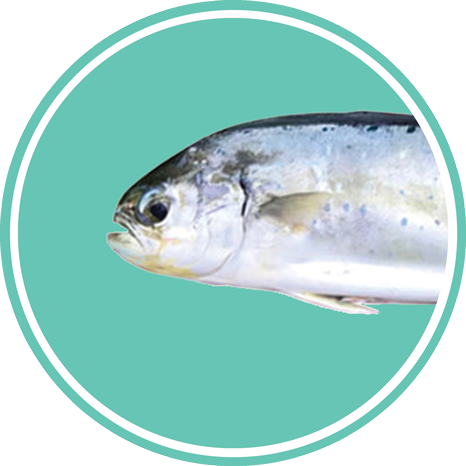
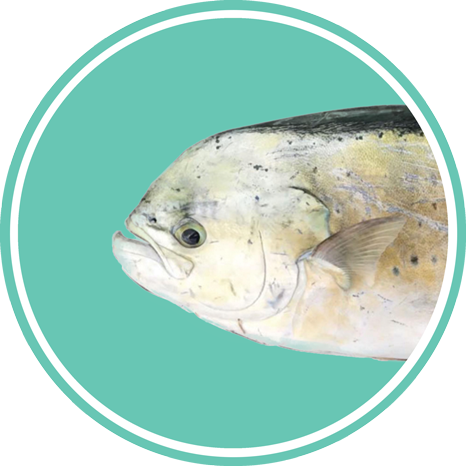
7/16 update.2

Changed region(s): [[0.2103, 0.2103, 0.9614, 0.7811]]

diff --git a/src/data/index.js b/src/data/index.js
@@ -191,6 +191,7 @@ export const sectionData = [
 export const fishProductsInfo = {
   redsnapper: {
     fish: "American Red Snapper",
+    color: "#f32e37",
     scienceName: "Lutjanus campechanus",
     hero: images.heroImages.redsnapper,
     caption: [
@@ -199,6 +200,7 @@ export const fishProductsInfo = {
   },
   mahimahi: {
     fish: "Mahi-Mahi",
+    color: "#5ad0ba",
     scienceName: "Coryphaena hippurus",
     hero: images.heroImages.mahimahi,
     caption: [
@@ -207,6 +209,7 @@ export const fishProductsInfo = {
   },
   grouper: {
     fish: "Hybrid Grouper",
+    color: "#ffc702",
     scienceName: "Epinephelus fuscoguttatus",
     hero: images.heroImages.grouper,
     caption: [
@@ -215,6 +218,7 @@ export const fishProductsInfo = {
   },
   coraltrout: {
     fish: "Coral Trout",
+    color: "#ec5d73",
     scienceName: "Plectropomus leopardus",
     hero: images.heroImages.coraltrout,
     caption: [
@@ -224,6 +228,7 @@ export const fishProductsInfo = {
   },
   hirame: {
     fish: "Hirame",
+    color: "#9ce881",
     scienceName: "Paralichthys olivaceus",
     hero: images.heroImages.hirame,
     caption: [

diff --git a/src/components/products/Products.js b/src/components/products/Products.js
@@ -4,12 +4,13 @@ import ProductsHeroAnimation from "../animations/ProductsHeroAnimation";
 
 const Products = props => {
   const { info } = props;
+  console.log(info);
   return (
     <div className="container">
       <WaveAnimation color="white" />
       <div className="Products-container flex collapse-row-column">
         <div className="Products-info">
-          <h1>
+          <h1 style={{ color: info.color }}>
             {info.fish.toUpperCase()}
             <span>{`(${info.scienceName})`}</span>
           </h1>

diff --git a/src/components/landing/schools/SchoolEmblem.js b/src/components/landing/schools/SchoolEmblem.js
@@ -6,7 +6,11 @@ const SchoolEmblem = props => {
   return (
     <div className="flex-1 flex-content-center">
       <Link to={`schools/${school.name}`}>
-        <img src={school.pic} alt={school.name} className="image School-emblem" />
+        <img
+          src={school.pic}
+          alt={school.name}
+          className="image School-emblem"
+        />
       </Link>
     </div>
   );
